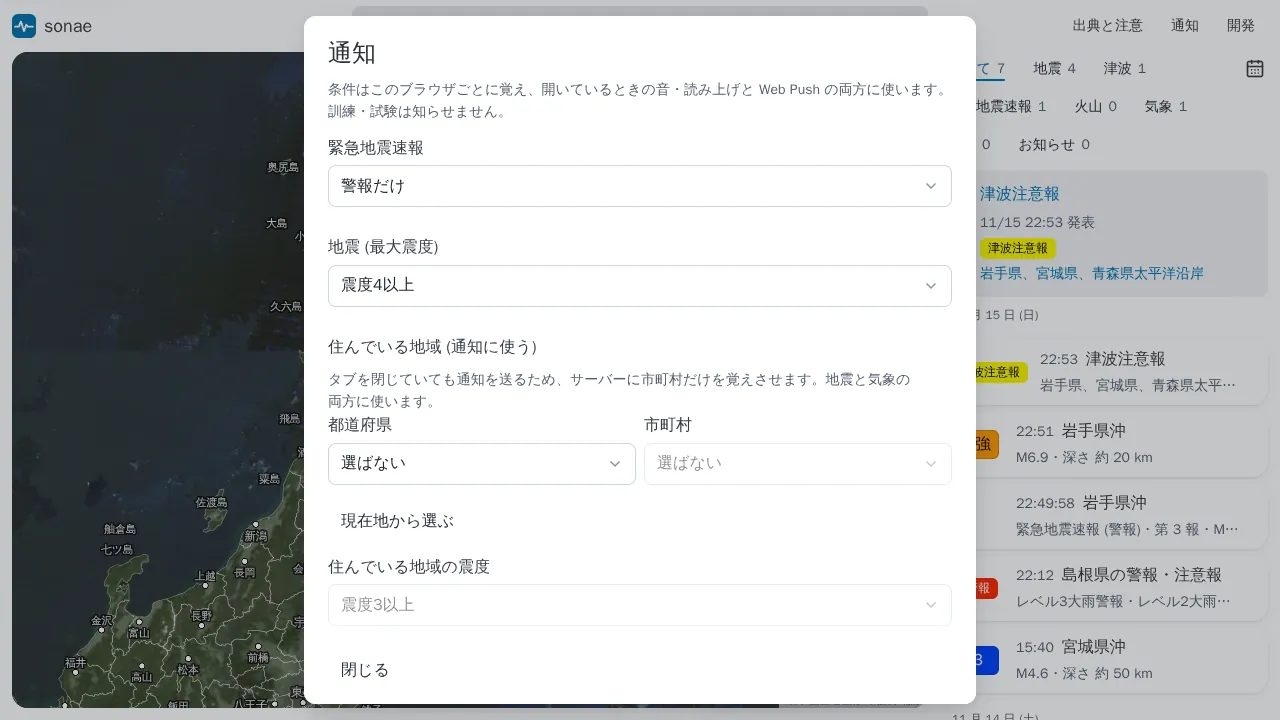
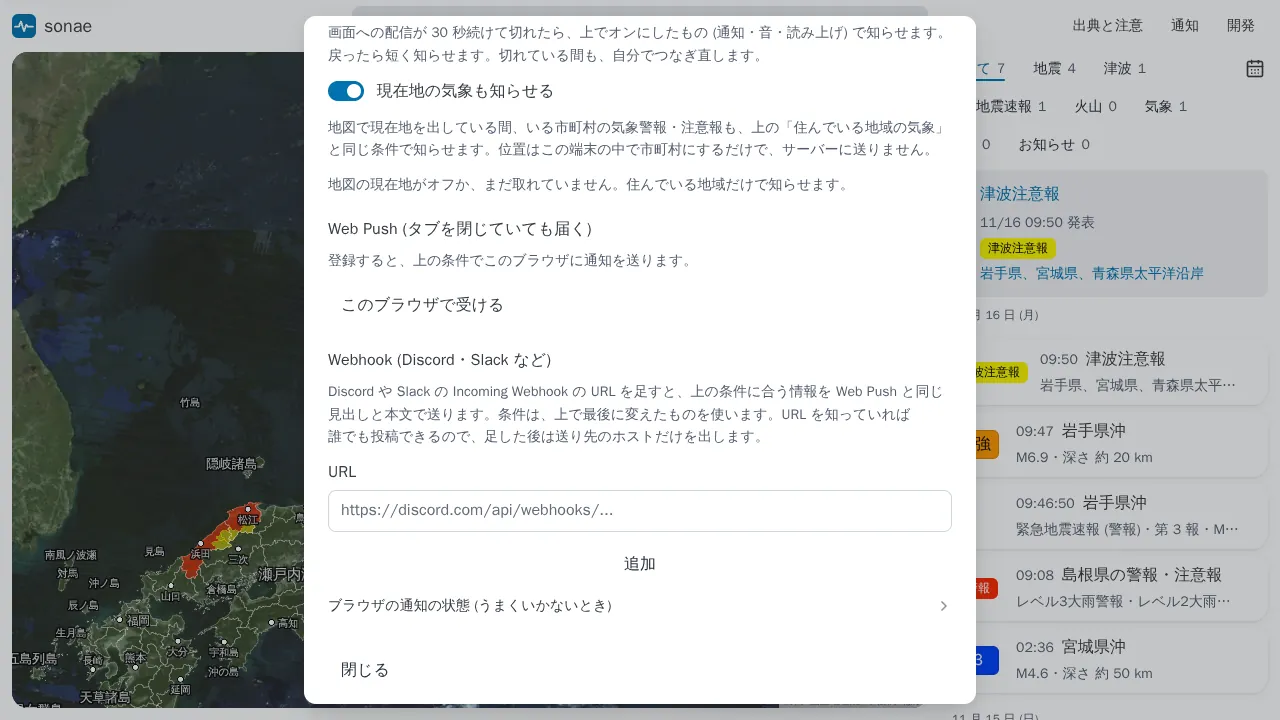
README の通知の窓のスクリーンショットを、いまの画面で撮り直す (#178)
#176 (スイッチを消した) と #174 (Webhook の節) の入った窓を、下まで巻いて撮る。
Web Push の「このブラウザで受ける」と、URL の欄が空の Webhook の節が写る。

Claude-Session: https://claude.ai/code/session_01T8TqVdo6LUrWKdVQgbScVU

diff --git a/README.md b/README.md
@@ -17,7 +17,7 @@ https://github.com/user-attachments/assets/24a0b5a8-9ba6-4722-bb65-c7baeda2827f
   <tr>
     <td align="center"><img src="docs/images/map.webp" alt="地図と一覧" width="380"><br><sub><b>地図と一覧</b> — 津波注意報の海岸と気象の警報・注意報を地図に、全部の種類を新しい順に 1 本の一覧に</sub></td>
     <td align="center"><img src="docs/images/detail.webp" alt="詳しい内容" width="380"><br><sub><b>詳しい内容</b> — 行を押すと、震源・M・各地域の震度。地図も各地の震度で塗る</sub></td>
-    <td align="center"><img src="docs/images/notify.webp" alt="通知の窓" width="380"><br><sub><b>通知</b> — 知らせる条件・音と読み上げ・読み上げの声・Web Push・Webhook</sub></td>
+    <td align="center"><img src="docs/images/notify.webp" alt="通知の窓を下まで巻いたところ。受信が切れたときの説明、現在地の気象も知らせるスイッチ、Web Push の「このブラウザで受ける」、Webhook の URL の欄と「追加」" width="380"><br><sub><b>通知</b> — 知らせる条件・音と読み上げ・読み上げの声・Web Push・Webhook</sub></td>
   </tr>
   <tr>
     <td align="center"><img src="docs/images/phone-map.webp" alt="スマホの地図" width="190"><br><sub><b>スマホ</b> — 地図が画面いっぱいに。下に選んだものの 1 行と 5 つのタブ</sub></td>
